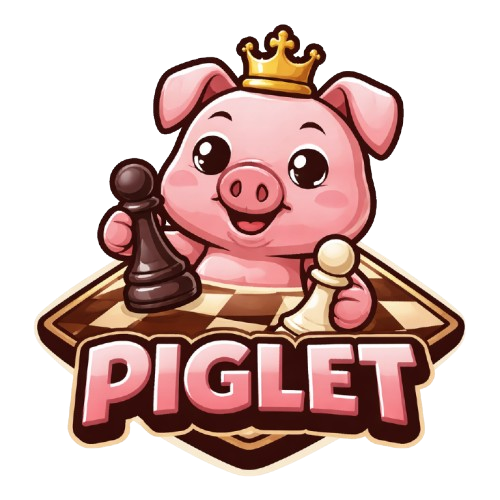
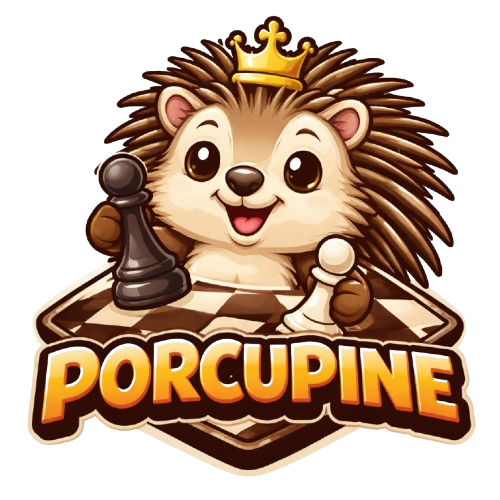
Rebrand engine to Porcupine by Chiriac Theodor (Romania)

diff --git a/src/uci/mod.rs b/src/uci/mod.rs
@@ -12,8 +12,8 @@ use crate::types::{Board, Move, Depth, Piece};
 use movegen::Square;
 
 /// UCI engine identification
-pub const ENGINE_NAME: &str = "ChessInRust";
-pub const ENGINE_AUTHOR: &str = "Anonymous";
+pub const ENGINE_NAME: &str = "Porcupine";
+pub const ENGINE_AUTHOR: &str = "Chiriac Theodor";
 
 /// Time control parameters from "go" command
 #[derive(Debug, Clone, Default)]

diff --git a/README.md b/README.md
@@ -1,5 +1,5 @@
 <p align="center">
-  <img src="icon.png" alt="Piglet Chess Engine" width="200">
+  <img src="icon.png" alt="Porcupine Chess Engine" width="200">
 </p>
 
 <p align="center">
@@ -7,13 +7,15 @@
   <img src="https://img.shields.io/badge/License-MIT-blue?style=for-the-badge" alt="License">
   <img src="https://img.shields.io/badge/UCI-Compatible-green?style=for-the-badge" alt="UCI">
   <img src="https://img.shields.io/badge/NNUE-HalfKP-purple?style=for-the-badge" alt="NNUE">
+  <img src="https://img.shields.io/badge/Author-Chiriac%20Theodor-red?style=for-the-badge" alt="Author">
+  <img src="https://img.shields.io/badge/Country-Romania-yellow?style=for-the-badge" alt="Romania">
 </p>
 
-# 🐷 Piglet Chess Engine
+# 🦔 Porcupine Chess Engine
 
-**Piglet** is a high-performance, UCI-compatible chess engine written entirely in Rust. Combining cutting-edge search algorithms with NNUE (Efficiently Updatable Neural Network) evaluation, Piglet delivers strong, tactical play while maintaining blazing-fast performance.
+**Porcupine** is a high-performance, UCI-compatible chess engine written entirely in Rust. Combining cutting-edge search algorithms with NNUE (Efficiently Updatable Neural Network) evaluation, Porcupine delivers strong, tactical play while maintaining blazing-fast performance.
 
-> *Piglet is the successor of [Ferrum](https://github.com/TheChii/Ferrum), rebuilt with enhanced strength and new ideas.*
+> *Porcupine is the successor of [Ferrum](https://github.com/TheChii/Ferrum), rebuilt with enhanced strength and new ideas.*
 
 ---
 
@@ -68,8 +70,8 @@
 
 ```bash
 # Clone with submodules
-git clone --recursive https://github.com/TheChii/Piglet.git
-cd Piglet
+git clone --recursive https://github.com/TheChii/Porcupine.git
+cd Porcupine
 
 # Build optimized release
 cargo build --release
@@ -81,13 +83,13 @@ cp network.nnue target/release/
 The executable will be at `target/release/chessinrust` (or `.exe` on Windows).
 
 ### Download Pre-built
-Check the [Releases](https://github.com/TheChii/Piglet/releases) page for pre-compiled binaries.
+Check the [Releases](https://github.com/TheChii/Porcupine/releases) page for pre-compiled binaries.
 
 ---
 
 ## 🎮 Usage
 
-Piglet implements the **Universal Chess Interface (UCI)** protocol. Connect it to any UCI-compatible chess GUI:
+Porcupine implements the **Universal Chess Interface (UCI)** protocol. Connect it to any UCI-compatible chess GUI:
 
 | GUI | Platform | Link |
 |-----|----------|------|
@@ -111,8 +113,8 @@ Piglet implements the **Universal Chess Interface (UCI)** protocol. Connect it t
 
 ```
 > uci
-id name ChessInRust
-id author Anonymous
+id name Porcupine
+id author Chiriac Theodor
 ...
 uciok
 
@@ -134,7 +136,7 @@ bestmove g1f3
 ## 📁 Project Structure
 
 ```
-Piglet/
+Porcupine/
 ├── src/                    # Main engine source
 │   ├── eval/               # Evaluation (NNUE + HCE)
 │   ├── search/             # Search algorithm
@@ -171,7 +173,7 @@ cargo test --release -p nnue benchmark
 
 ## 📈 Strength
 
-Piglet is designed to compete at a strong amateur level. Key factors contributing to its strength:
+Porcupine is designed to compete at a strong amateur level. Key factors contributing to its strength:
 
 - ✅ Modern NNUE evaluation with HalfKP features
 - ✅ Efficient search with proper pruning hierarchy
@@ -219,4 +221,4 @@ This project is licensed under the **MIT License** — see the [LICENSE](LICENSE
 
 ## 📚 Keywords
 
-*chess engine, rust chess, uci engine, nnue, neural network chess, alpha-beta search, chess ai, open source chess, chess programming, piglet*
+*chess engine, rust chess, uci engine, nnue, neural network chess, alpha-beta search, chess ai, open source chess, chess programming, porcupine, romania*
